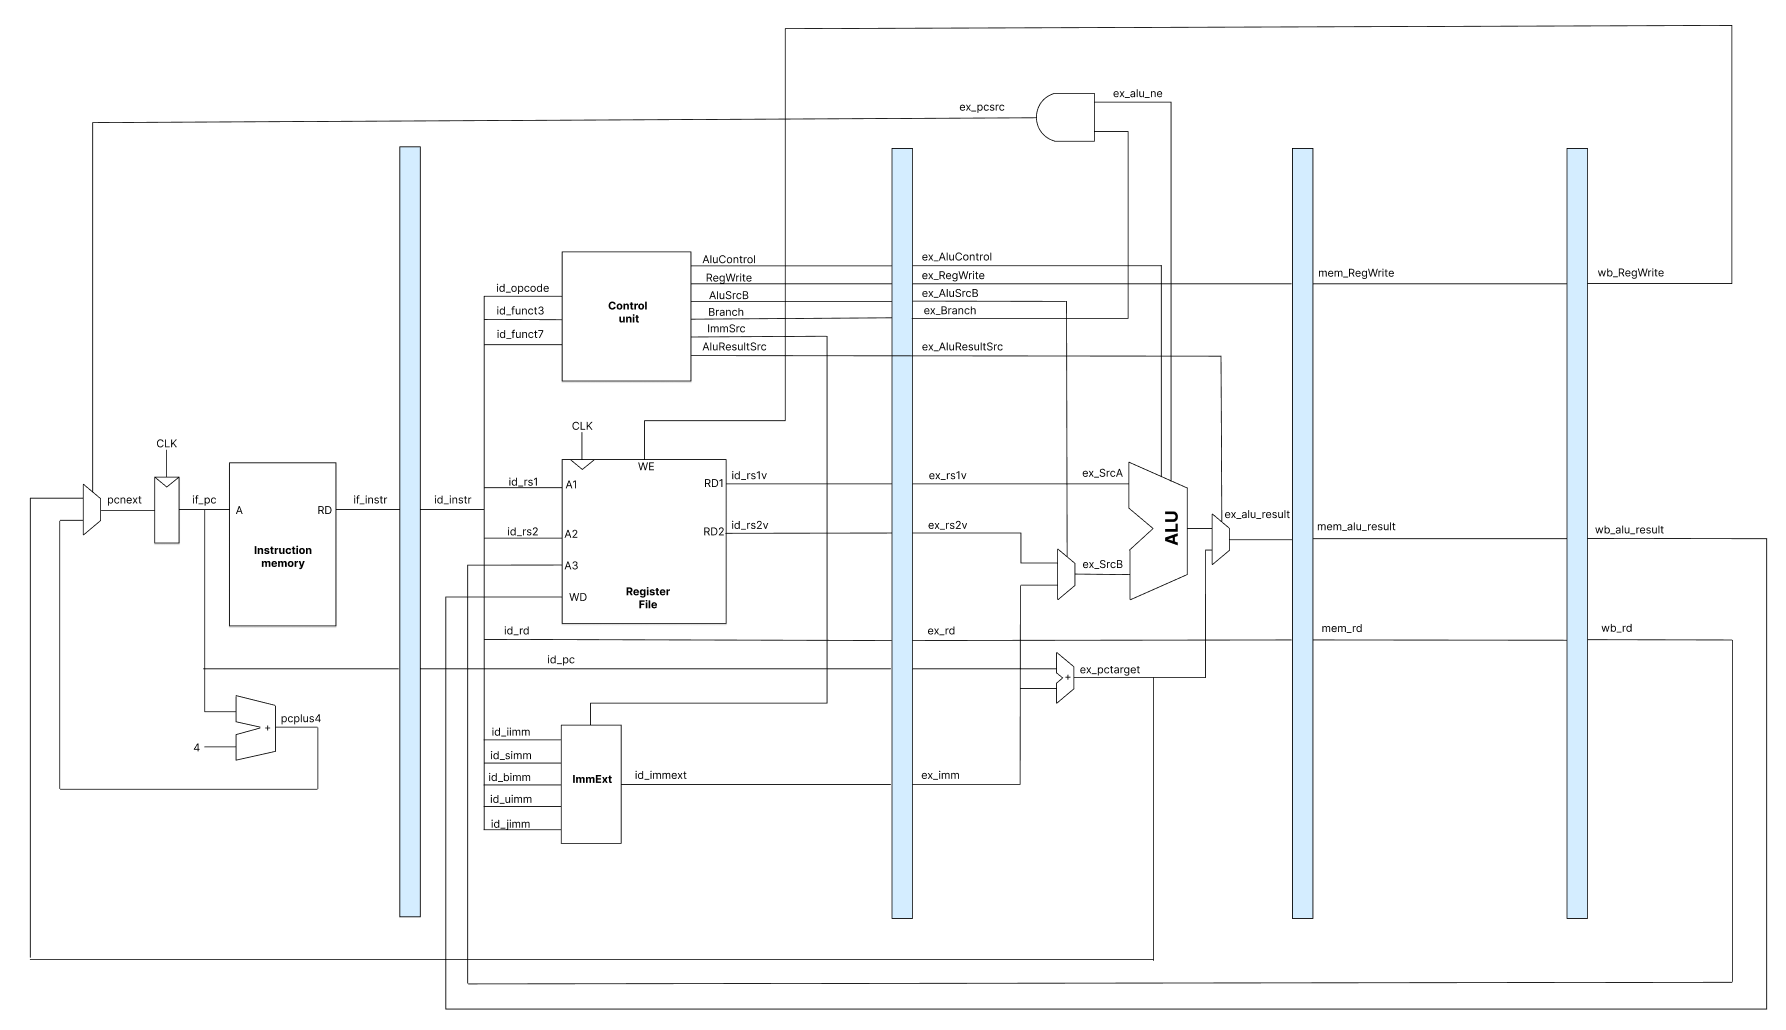
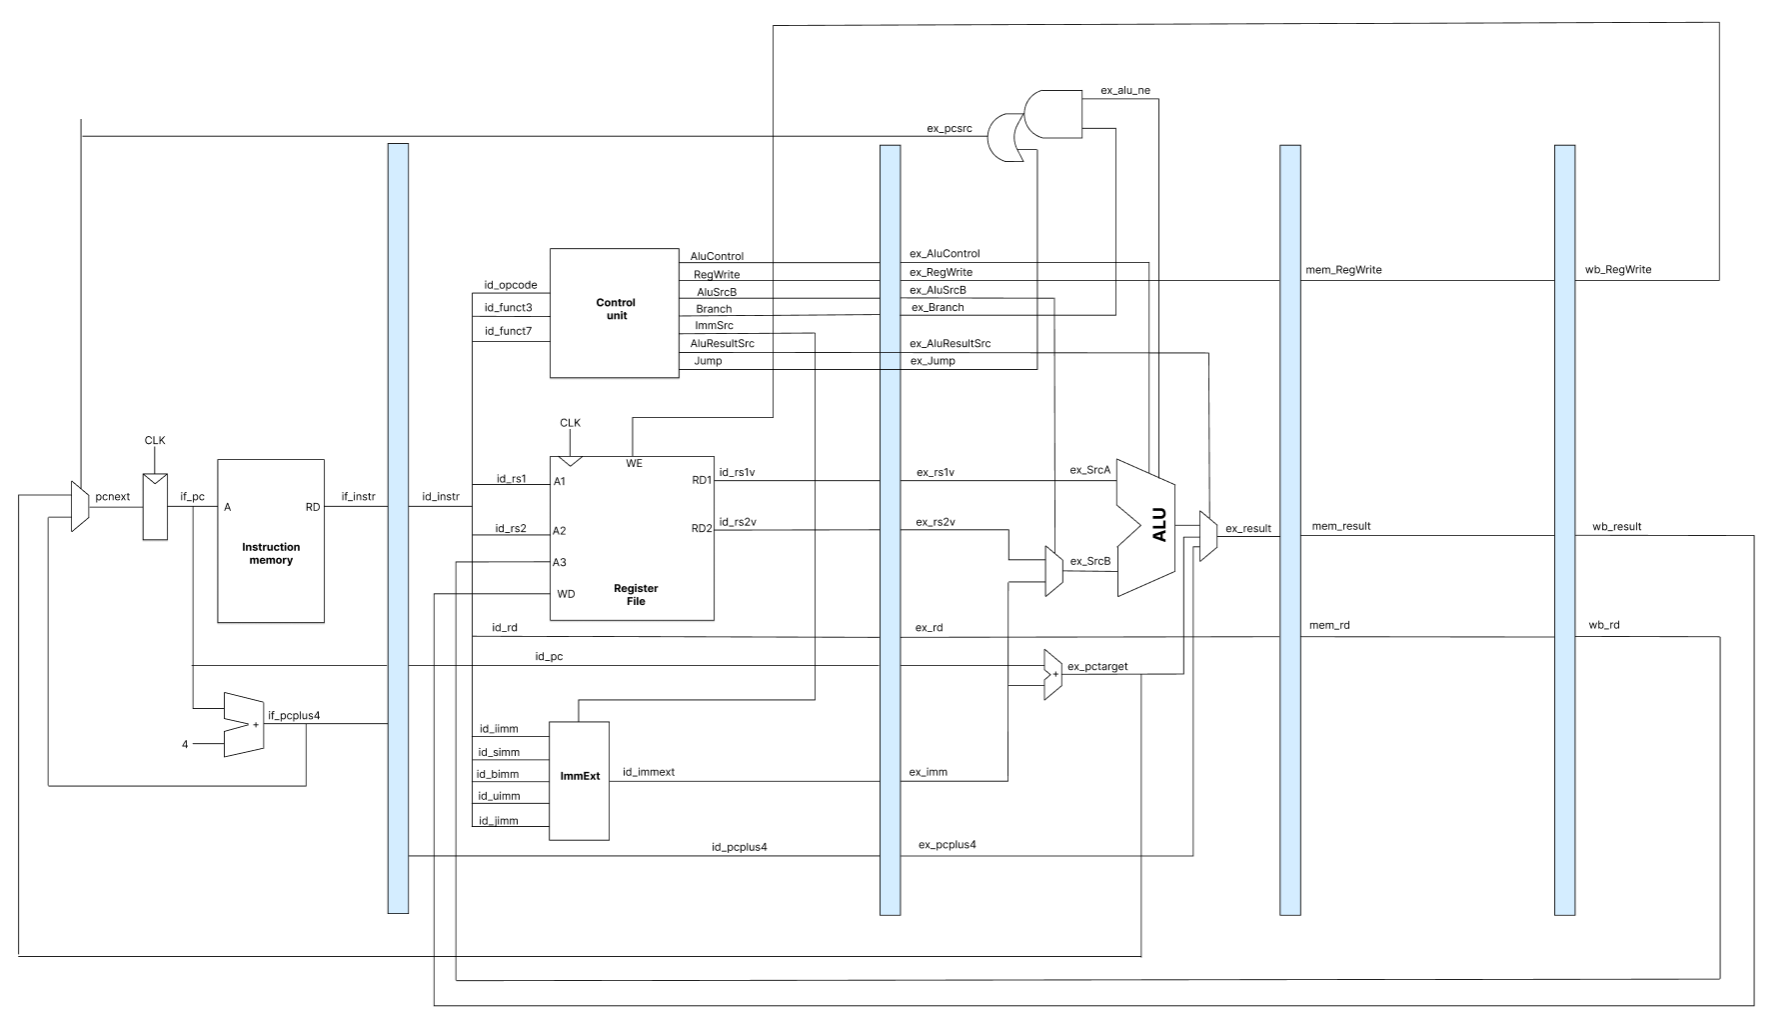
jal

diff --git a/processor/README.md b/processor/README.md
@@ -4,4 +4,4 @@
 ![64-bit RISC-V Core design](./assets/RISCV_22_10_23.png)
 
 5-stage pipelined 64-bit RISC-V soft core
-- Supported instructions: add, sub, sll, xor, or, and, bne, lui, auipc 
+- Supported instructions: add, sub, sll, xor, or, and, bne, lui, auipc, jal
